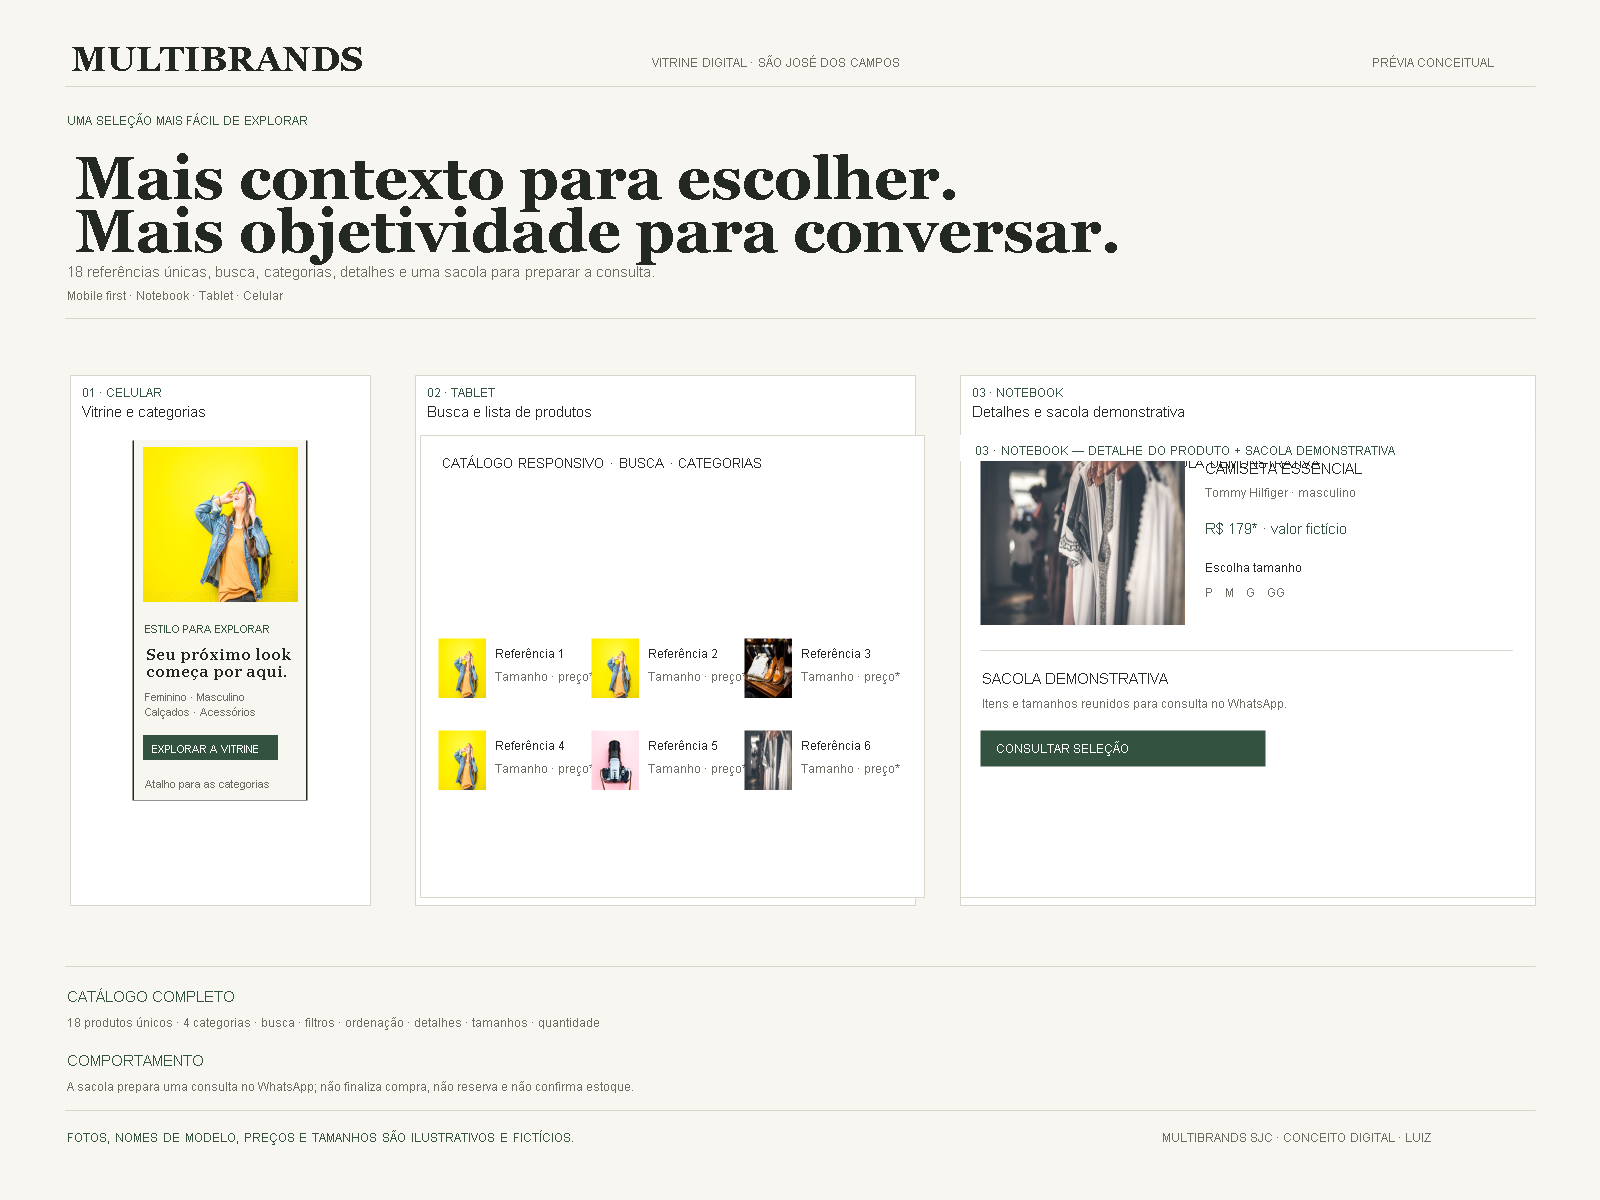
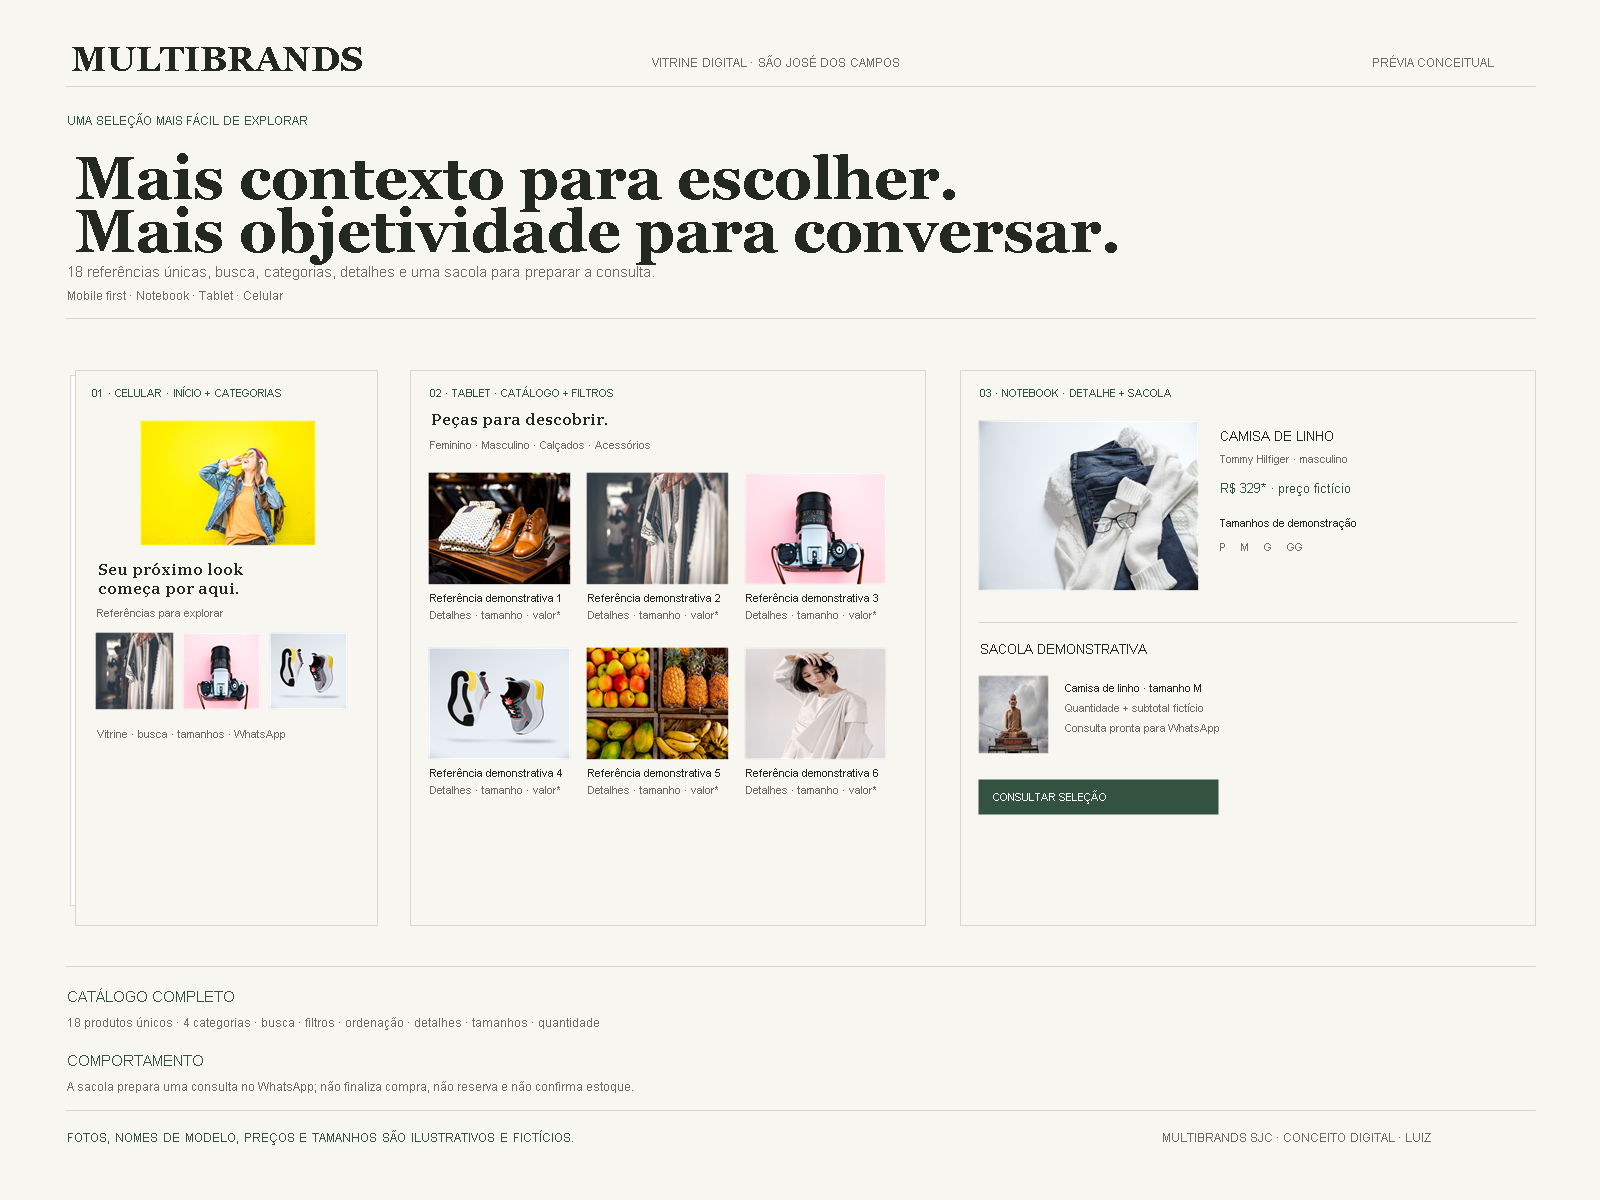
Replace embedded previews with reliable responsive board frames

diff --git a/prancha.html b/prancha.html
@@ -6,20 +6,21 @@
 <title>Multibrands SJC · prancha responsiva</title>
 <style>
 :root{--paper:#f8f6f1;--ink:#302d2c;--muted:#77716c;--line:#ddd8d1;--olive:#65703a;--lime:#d3ef36;--serif:Georgia,'Times New Roman',serif;--sans:Arial,sans-serif;--mono:'Courier New',monospace}*{box-sizing:border-box}body{margin:0;background:#e8e5df;color:var(--ink);font-family:var(--sans)}.board{width:1600px;height:1200px;margin:0 auto;padding:40px 64px 26px;background:var(--paper);overflow:hidden}.head{height:60px;display:flex;align-items:center;border-bottom:1px solid var(--line);gap:14px}.mark{font:700 30px var(--serif)}.brand{font-weight:700;font-size:14px;letter-spacing:.12em}.context{margin:auto;color:var(--muted);font:10px var(--mono);letter-spacing:.08em}.concept{font:9px var(--mono);letter-spacing:.11em}.intro{display:grid;grid-template-columns:1fr .58fr;gap:60px;align-items:end;padding:30px 8px 24px}.eyebrow{margin:0;color:var(--olive);font:10px var(--mono);letter-spacing:.1em;text-transform:uppercase}.intro h1{font:400 43px/1.04 var(--serif);letter-spacing:-.04em;margin:12px 0 0}.intro-copy{max-width:440px;color:var(--muted);font-size:13px;line-height:1.65;margin:0 0 2px}.stats{display:flex;gap:8px;margin-top:12px}.stats span{border:1px solid var(--line);padding:6px 8px;color:var(--olive);font:8px var(--mono);letter-spacing:.04em}.devices{height:640px;display:flex;align-items:flex-start;justify-content:space-between;padding:0 4px}.device{display:flex;flex-direction:column;align-items:center}.device-label{width:100%;display:flex;justify-content:space-between;align-items:baseline;margin:0 0 10px}.device-label strong{font:10px var(--mono);letter-spacing:.09em;text-transform:uppercase}.device-label span{font:8px var(--mono);color:var(--muted)}.laptop{width:790px}.laptop .shell{width:790px;padding:11px 12px 15px;background:#282726;border-radius:14px 14px 6px 6px;box-shadow:0 14px 22px #29232120}.laptop .screen{width:766px;height:469px;overflow:hidden;background:#fff}.laptop iframe{width:1200px;height:735px;transform:scale(.63833);transform-origin:top left}.laptop .base{width:826px;height:18px;background:linear-gradient(#d8d6d1,#a7a5a0);clip-path:polygon(3% 0,97% 0,100% 100%,0 100%);border-radius:0 0 11px 11px;box-shadow:0 9px 12px #1113}.tablet{width:342px}.tablet .shell{width:340px;padding:13px;background:#282726;border-radius:25px;box-shadow:0 14px 22px #29232120}.tablet .screen{width:314px;height:430px;overflow:hidden;background:white;border-radius:12px}.tablet iframe{width:768px;height:1052px;transform:scale(.40885);transform-origin:top left}.phone{width:236px}.phone .shell{width:234px;padding:10px;background:#262524;border-radius:30px;box-shadow:0 14px 22px #29232120;position:relative}.phone .screen{width:214px;height:463px;overflow:hidden;background:white;border-radius:21px}.phone iframe{width:390px;height:844px;transform:scale(.54872);transform-origin:top left}.notch{position:absolute;top:9px;left:50%;transform:translateX(-50%);z-index:2;width:74px;height:13px;border-radius:0 0 9px 9px;background:#262524}.caption{margin-top:12px;text-align:center;color:var(--muted);font:8px var(--mono);letter-spacing:.04em}.bottom{display:grid;grid-template-columns:1fr 1fr;gap:58px;border-top:1px solid var(--line);padding:18px 8px 12px;margin-top:8px}.bottom h2{margin:5px 0 5px;font:400 22px var(--serif)}.bottom p{max-width:600px;margin:0;color:var(--muted);font-size:11px;line-height:1.55}.features{display:flex;gap:7px;margin-top:9px}.features span{border:1px solid var(--line);padding:5px 7px;color:var(--olive);font:8px var(--mono)}.footer{height:27px;border-top:1px solid var(--line);display:flex;justify-content:space-between;align-items:end;color:var(--muted);font-size:8px}.footer span:nth-child(2){margin:auto}@media print{body{background:white}.board{margin:0}}
-</style>
+.screen-note{height:100%;display:flex;align-items:center;justify-content:center;background:linear-gradient(145deg,#f4f1e9,#e9e5dc);color:#65703a;font:10px Arial,sans-serif;letter-spacing:.15em;text-align:center;padding:30px}</style>
 </head>
 <body><main class="board">
 <header class="head"><span class="mark">M.</span><span class="brand">MULTIBRANDS</span><span class="context">MODA MULTIMARCAS · SÃO JOSÉ DOS CAMPOS / SP</span><span class="concept">PRÉVIA RESPONSIVA</span></header>
 <section class="intro"><div><p class="eyebrow">Da inspiração à consulta, em qualquer tela</p><h1>Uma vitrine multimarcas que acompanha<br>o ritmo de quem escolhe.</h1></div><div><p class="intro-copy">Uma apresentação visual em notebook, tablet e celular mostra como descobrir referências, filtrar e preparar a consulta à equipe.</p><div class="stats"><span>18 REFERÊNCIAS ÚNICAS</span><span>03 DIREÇÕES VISUAIS</span></div></div></section>
 <section class="devices" aria-label="Demonstração responsiva em três dispositivos">
-<article class="device laptop"><div class="device-label"><strong>Notebook · abertura editorial</strong><span>1200 px</span></div><div class="shell"><div class="screen"><iframe title="Vitrine Multibrands em notebook" src="https://oluisvi.github.io/multibrands-sjc-conceito/" loading="eager"></iframe></div></div><div class="base"></div><p class="caption">IMAGEM DE CAMPANHA · NAVEGAÇÃO · CHAMADA PRINCIPAL</p></article>
-<article class="device tablet"><div class="device-label"><strong>Tablet · catálogo</strong><span>768 px</span></div><div class="shell"><div class="screen"><iframe title="Catálogo Multibrands em tablet" data-view="catalog" src="https://oluisvi.github.io/multibrands-sjc-conceito/" loading="eager"></iframe></div></div><p class="caption">CATEGORIAS · BUSCA · SELEÇÃO</p></article>
-<article class="device phone"><div class="device-label"><strong>Celular · detalhes</strong><span>390 px</span></div><div class="shell"><span class="notch"></span><div class="screen"><iframe title="Detalhe de produto Multibrands em celular" data-view="detail" src="https://oluisvi.github.io/multibrands-sjc-conceito/" loading="eager"></iframe></div></div><p class="caption">PUBLICAÇÃO · CONSULTA · WHATSAPP</p></article>
+<article class="device laptop"><div class="device-label"><strong>Notebook · abertura editorial</strong><span>1200 px</span></div><div class="shell"><div class="screen"><div class="screen-note">PREVIEW RESPONSIVO · CATÁLOGO · SACOLA</div></div></div><div class="base"></div><p class="caption">IMAGEM DE CAMPANHA · NAVEGAÇÃO · CHAMADA PRINCIPAL</p></article>
+<article class="device tablet"><div class="device-label"><strong>Tablet · catálogo</strong><span>768 px</span></div><div class="shell"><div class="screen"><div class="screen-note">PREVIEW RESPONSIVO · CATÁLOGO · SACOLA</div></div></div><p class="caption">Busca · categorias · catálogo demonstrativo</p></article>
+<article class="device phone"><div class="device-label"><strong>Celular · detalhes</strong><span>390 px</span></div><div class="shell"><span class="notch"></span><div class="screen"><div class="screen-note">PREVIEW RESPONSIVO · CATÁLOGO · SACOLA</div></div></div><p class="caption">Detalhes · seleção · consulta WhatsApp</p></article>
 </section>
 <section class="bottom"><div><p class="eyebrow">Descoberta simples, conteúdo organizado</p><h2>Busca, filtros, categorias e 18 referências</h2><p>18 referências únicas, busca, categorias, tamanhos e detalhes por peça. A pessoa pode montar uma seleção demonstrativa para consultar a equipe.</p><div class="features"><span>18 REFERÊNCIAS</span><span>BUSCA</span><span>SACOLA</span><span>ORDENAÇÃO</span></div></div><div><p class="eyebrow">Uma conversa com contexto</p><h2>Selecione a peça e consulte a equipe</h2><p>A seleção prepara a mensagem no WhatsApp. Valores e disponibilidade são confirmados pela Multibrands; a prévia não integra estoque nem pagamento.</p><div class="features"><span>EDITORIAL</span><span>STREET</span><span>BOUTIQUE</span></div></div></section>
 <footer class="footer"><span>MULTIBRANDS · PRANCHA DE APRESENTAÇÃO</span><span>Protótipo independente · referências visuais da loja</span><span>ServAgency · 09 NOV 2026</span></footer>
 </main><script>
 for(const frame of document.querySelectorAll("iframe[data-view]"))frame.addEventListener("load",()=>{try{const win=frame.contentWindow,doc=win.document;const catalog=doc.querySelector("#catalogo");if(frame.dataset.view==="catalog"&&catalog)win.scrollTo(0,catalog.getBoundingClientRect().top+win.scrollY);if(frame.dataset.view==="detail"){const card=doc.querySelector("[data-open-product]");if(card)card.click()}}catch{}});</script></body></html>
+
 
 
 
